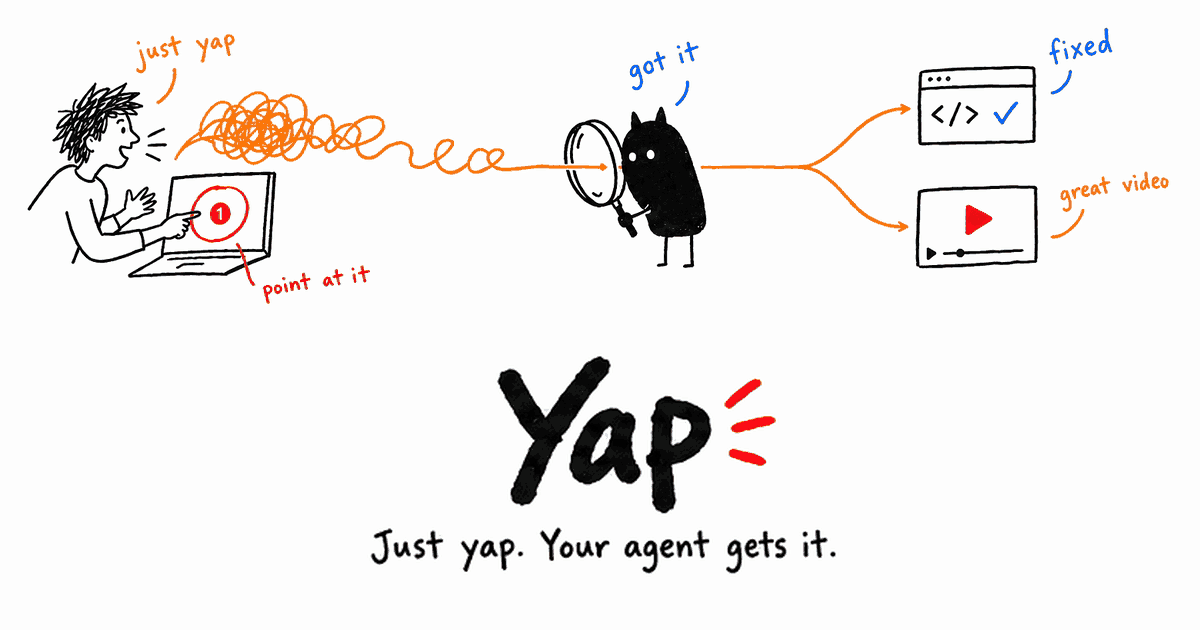
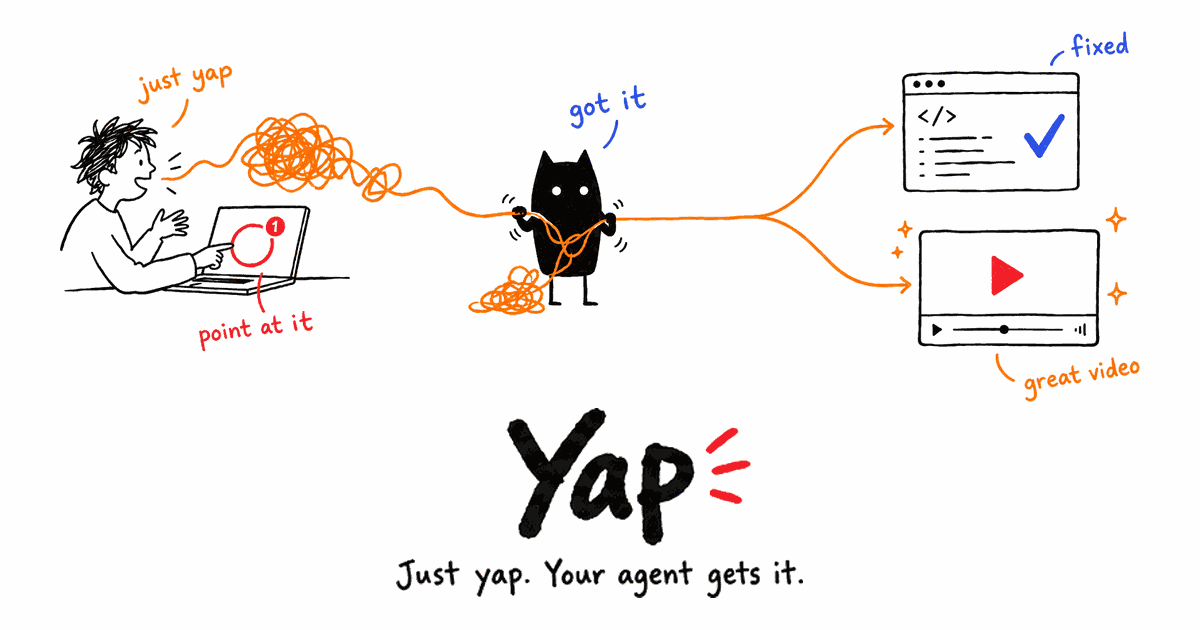
feat(site): Xiaohei untangles what you meant; hero art without the duplicate wordmark
The magnifying glass read as a search, not as understanding. The new scene has
Xiaohei untangle the rambling line, with the fix and the video drawn larger.
The site hero drops the wordmark that repeated its headline and spans wider
than the text; the README header and social card keep it under the scene.
compose.py makes all three from the generated scene and the wordmark.

diff --git a/apps/site/style.css b/apps/site/style.css
@@ -178,9 +178,9 @@ h1 span {
   height: auto;
   mix-blend-mode: multiply;
 }
+/* The hero art breaks out of the section to a wider band than the text. */
 .hero-art {
-  margin: 1.5rem auto 0;
-  max-width: 1080px;
+  margin: 1.5rem calc(50% - min(50vw - 1rem, 660px)) 0;
 }
 
 .ctas {

diff --git a/specs/show-your-agent/assets/art/compose.py b/specs/show-your-agent/assets/art/compose.py
@@ -1,0 +1,55 @@
+# Makes the site hero, README header and social card from the generated scene and the wordmark.
+# Run from this directory: uv run --with pillow python compose.py
+from PIL import Image, ImageOps
+
+REPO = "../../../.."
+
+
+def snap(im, threshold=235):
+    """Near white becomes white, so the art multiplies cleanly onto the page's paper."""
+    im = im.convert("RGB")
+    px = im.load()
+    for y in range(im.height):
+        for x in range(im.width):
+            if min(px[x, y]) >= threshold:
+                px[x, y] = (255, 255, 255)
+    return im
+
+
+def trim(im):
+    return im.crop(ImageOps.invert(im).getbbox())
+
+
+def fit(im, width=None, height=None):
+    scale = min((width or 1e9) / im.width, (height or 1e9) / im.height)
+    return im.resize((round(im.width * scale), round(im.height * scale)), Image.LANCZOS)
+
+
+def quantize(im):
+    # Octree keeps the saturated orange, red and blue; median cut muddies them.
+    return im.quantize(colors=48, method=Image.Quantize.FASTOCTREE, dither=Image.Dither.NONE)
+
+
+def stacked(scene, mark, size, scene_width, mark_height, gap):
+    """The scene with the wordmark and tagline centred under it, the pair centred on the canvas."""
+    width, height = size
+    canvas = Image.new("RGB", size, "white")
+    scene, mark = fit(scene, width=scene_width), fit(mark, height=mark_height)
+    top = (height - scene.height - gap - mark.height) // 2
+    canvas.paste(scene, ((width - scene.width) // 2, top))
+    canvas.paste(mark, ((width - mark.width) // 2, top + scene.height + gap))
+    return quantize(canvas)
+
+
+scene = trim(snap(Image.open("01-untangle-source.png")))
+mark = trim(snap(Image.open("wordmark.png")))
+
+margin = 40
+hero = Image.new("RGB", (scene.width + 2 * margin, scene.height + 2 * margin), "white")
+hero.paste(scene, (margin, margin))
+quantize(hero).save(f"{REPO}/.github/readme/hero.png", optimize=True)
+
+stacked(scene, mark, (1800, 900), 1680, 200, 30).save(
+    f"{REPO}/.github/readme/header.png", optimize=True
+)
+stacked(scene, mark, (1200, 630), 1080, 190, 6).save(f"{REPO}/apps/site/og.png", optimize=True)

diff --git a/specs/show-your-agent/assets/art/README.md b/specs/show-your-agent/assets/art/README.md
@@ -1,19 +1,23 @@
-# Header and social preview art
+# Header, hero and social preview art
 
-`01-got-it-source.png` is the generated original (`duet model -m openai/gpt-image-2.5-flare
---size 1536x1024 --background opaque`, prompt in `01-got-it-prompt.txt`, one of three variants;
-chosen for its in-palette blue check and Xiaohei reading the talk through the lens). It shows
-the new line: a person just yaps and circles a pin on their laptop, Xiaohei gets it through a
-magnifying glass ("got it"), and the straightened line ends in a fixed screen and a great video.
+`01-untangle-source.png` is the generated scene (`duet model -m openai/gpt-image-2.5-flare
+--size 1536x1024 --background opaque`, prompt in `01-untangle-prompt.txt`, one of three middles
+tried: headphones and a replay TV, untangling, taking notes). A person just yaps and circles a pin
+on their laptop, Xiaohei untangles the rambling line by hand ("got it"), and the straight line ends
+in a fixed screen and a great video, drawn large because they are the payoff.
 
-`.github/readme/header.png` (1800×600) and `apps/site/og.png` (1200×630) are made from it: near
-white snapped to white, the drawing band and the wordmark block cut out and recomposed so the
-wordmark sits under the outputs instead of floating far below, padded to each size, quantized to
-24 colours.
+It replaced a version where Xiaohei held a magnifying glass up to the line: the lens read as a
+search, not as understanding what was meant.
 
-The social card centres a much larger wordmark and tagline under the scene, so the brand and
-the line still read when a preview shrinks the card to a few hundred pixels (an unprimed
-critique found the corner wordmark unreadable at that size).
+`wordmark.png` is the "Yap" wordmark and tagline, cut from the earlier generated art. The scene
+carries no wordmark, so the site hero, which sits under the same words as its headline, does not
+repeat them.
 
-The label over Xiaohei was then edited from "gets it" to "got it" (an image edit of the same
-source, everything else unchanged), and both crops were tightened to cut the empty space.
+[`compose.py`](compose.py) makes all three images (near white snapped to white, trimmed, quantized
+with an octree so the orange, red and blue stay saturated):
+
+- `.github/readme/hero.png`: the scene alone, for the site hero.
+- `.github/readme/header.png`: the scene with the wordmark centred under it, for the README, where
+  the art is the title.
+- `apps/site/og.png` (1200×630): the same layout as the README header, with a wordmark large
+  enough to read when a preview shrinks the card to a few hundred pixels.

diff --git a/specs/show-your-agent/slices/M-messaging.md b/specs/show-your-agent/slices/M-messaging.md
@@ -23,7 +23,7 @@
 - User feedback: it's one product, so "show people" uses the same keys: Record `⌥⇧S`,
   Ask `⌥⇧V`. `positioning.md`'s messaging rules now say so.
 
-**Done 2026-10-19:** `header.png` and `og.png` regenerated with the new line ([art](../assets/art/README.md)).
+**Done 2026-10-19:** `header.png` and `og.png` regenerated with the new line ([art](../assets/art/README.md)). On 2026-10-21 the scene was redrawn (Xiaohei untangles instead of using a magnifying glass) and the site hero lost its duplicate wordmark.
 `launch-poster.jpg` is a frame of the launch film, which shows the site as it was then; it stays.
 
 **Was remaining:** regenerate the images that draw the old tagline: `.github/readme/header.png`
